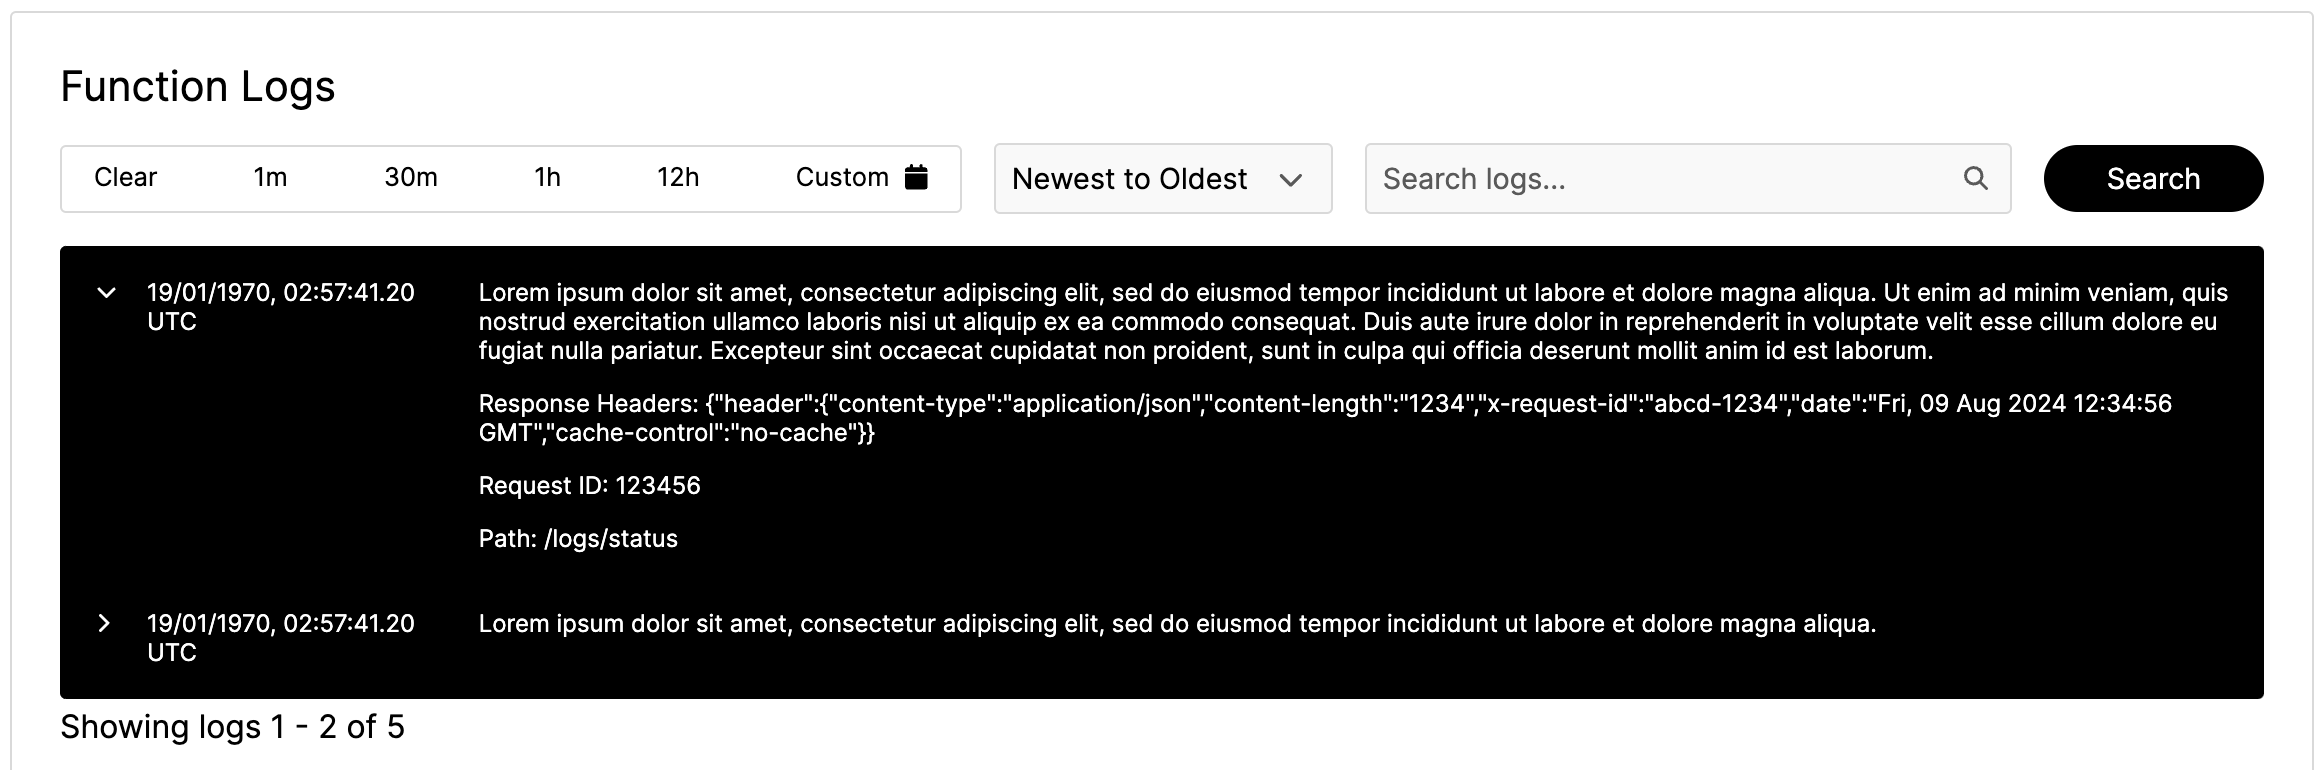
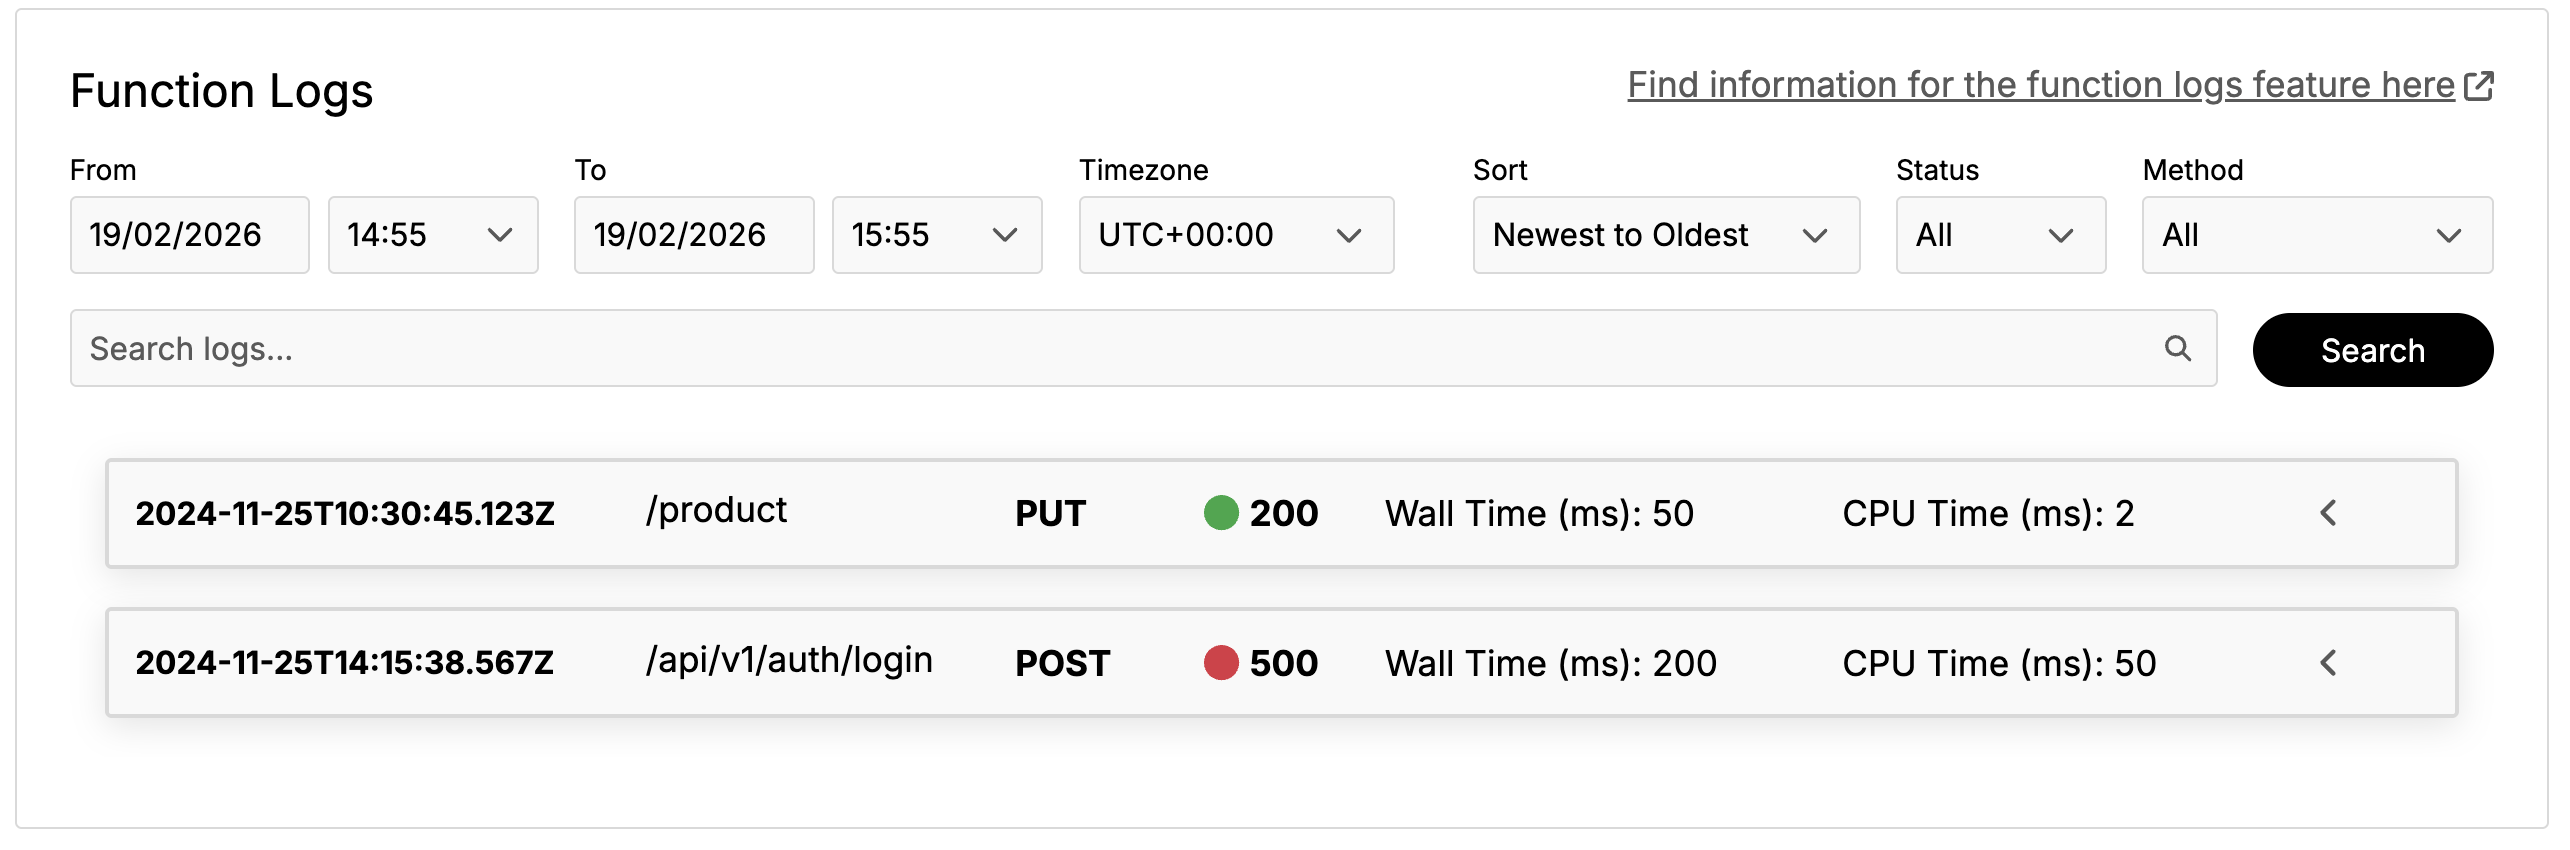
adding a couple of new screenshots and info for function metrics and function logs

diff --git a/src/content/docs/platform/v2.1.0/walkthrough/sites.md b/src/content/docs/platform/v2.1.0/walkthrough/sites.md
@@ -76,15 +76,13 @@ Please note that once created you will only be able to update or delete an envir
 
 Each environment has functions, which make up the deployed version of the site. You can see the logs and metrics for an individual function by clicking on it from the list on the environment page.
 
-![Function Logs and Metrics](https://media.graphassets.com/YPLJU4uWR6WuiiKJzKK3)
+![Function Logs and Metrics](/statics/screenshots/monitoring/monitoring.png)
 
 ### Function Logs
 
 ![Function Logs](/statics/screenshots/function_logs/function-logs.png)
 
-The function logs feature of Altitude allows you to filter the logs by time. You can either use the relative or absolute time selection options to specify the time frame for the logs.
-
-You are able to search the logs by keywords as well as filter them by requestID using the search bar. You are able to find the requestID for each log within the component itself as well as in the networks tab of the site you are requesting. The requestID is defined by the **Cf-Ray** value within the **Request Headers** section of the networks tab. The Cf-Ray value is structured as `RequestId-Location`.
+On Altitude you can search for function logs by your worker. These logs are grouped by request giving information on the path, HTTP Method and status code type associated to each request. You are able to search through the logs by filtering by time, status code range and HTTP Method for the requests. You can also sarch for logs by request path, log message and RequestId of the the HTTP request.
 
 ## Updating Source Code Repository
 

diff --git a/src/content/docs/platform/v2.2.0/walkthrough/sites.md b/src/content/docs/platform/v2.2.0/walkthrough/sites.md
@@ -76,15 +76,13 @@ Please note that once created you will only be able to update or delete an envir
 
 Each environment has functions, which make up the deployed version of the site. You can see the logs and metrics for an individual function by clicking on it from the list on the environment page.
 
-![Function Logs and Metrics](https://media.graphassets.com/YPLJU4uWR6WuiiKJzKK3)
+![Function Logs and Metrics](/statics/screenshots/monitoring/monitoring.png)
 
 ### Function Logs
 
 ![Function Logs](/statics/screenshots/function_logs/function-logs.png)
 
-The function logs feature of Altitude allows you to filter the logs by time. You can either use the relative or absolute time selection options to specify the time frame for the logs.
-
-You are able to search the logs by keywords as well as filter them by requestID using the search bar. You are able to find the requestID for each log within the component itself as well as in the networks tab of the site you are requesting. The requestID is defined by the **Cf-Ray** value within the **Request Headers** section of the networks tab. The Cf-Ray value is structured as `RequestId-Location`.
+On Altitude you can search for function logs by your worker. These logs are grouped by request giving information on the path, HTTP Method and status code type associated to each request. You are able to search through the logs by filtering by time, status code range and HTTP Method for the requests. You can also sarch for logs by request path, log message and RequestId of the the HTTP request.
 
 ## Updating Source Code Repository
 

diff --git a/src/content/docs/platform/v2.3.0/walkthrough/sites.md b/src/content/docs/platform/v2.3.0/walkthrough/sites.md
@@ -76,15 +76,14 @@ Please note that once created you will only be able to update or delete an envir
 
 Each environment has functions, which make up the deployed version of the site. You can see the logs and metrics for an individual function by clicking on it from the list on the environment page.
 
-![Function Logs and Metrics](https://media.graphassets.com/YPLJU4uWR6WuiiKJzKK3)
+![Function Logs and Metrics](/statics/screenshots/monitoring/monitoring.png)
 
 ### Function Logs
 
 ![Function Logs](/statics/screenshots/function_logs/function-logs.png)
 
-The function logs feature of Altitude allows you to filter the logs by time. You can either use the relative or absolute time selection options to specify the time frame for the logs.
+On Altitude you can search for function logs by your worker. These logs are grouped by request giving information on the path, HTTP Method and status code type associated to each request. You are able to search through the logs by filtering by time, status code range and HTTP Method for the requests. You can also sarch for logs by request path, log message and RequestId of the the HTTP request.
 
-You are able to search the logs by keywords as well as filter them by requestID using the search bar. You are able to find the requestID for each log within the component itself as well as in the networks tab of the site you are requesting. The requestID is defined by the **Cf-Ray** value within the **Request Headers** section of the networks tab. The Cf-Ray value is structured as `RequestId-Location`.
 
 ## Updating Source Code Repository
 

diff --git a/src/content/docs/platform/v2.4.0/walkthrough/sites.md b/src/content/docs/platform/v2.4.0/walkthrough/sites.md
@@ -76,15 +76,13 @@ Please note that once created you will only be able to update or delete an envir
 
 Each environment has functions, which make up the deployed version of the site. You can see the logs and metrics for an individual function by clicking on it from the list on the environment page.
 
-![Function Logs and Metrics](https://media.graphassets.com/YPLJU4uWR6WuiiKJzKK3)
+![Function Logs and Metrics](/statics/screenshots/monitoring/monitoring.png)
 
 ### Function Logs
 
 ![Function Logs](/statics/screenshots/function_logs/function-logs.png)
 
-The function logs feature of Altitude allows you to filter the logs by time. You can either use the relative or absolute time selection options to specify the time frame for the logs.
-
-You are able to search the logs by keywords as well as filter them by requestID using the search bar. You are able to find the requestID for each log within the component itself as well as in the networks tab of the site you are requesting. The requestID is defined by the **Cf-Ray** value within the **Request Headers** section of the networks tab. The Cf-Ray value is structured as `RequestId-Location`.
+On Altitude you can search for function logs by your worker. These logs are grouped by request giving information on the path, HTTP Method and status code type associated to each request. You are able to search through the logs by filtering by time, status code range and HTTP Method for the requests. You can also sarch for logs by request path, log message and RequestId of the the HTTP request.
 
 ## Updating Source Code Repository
 
